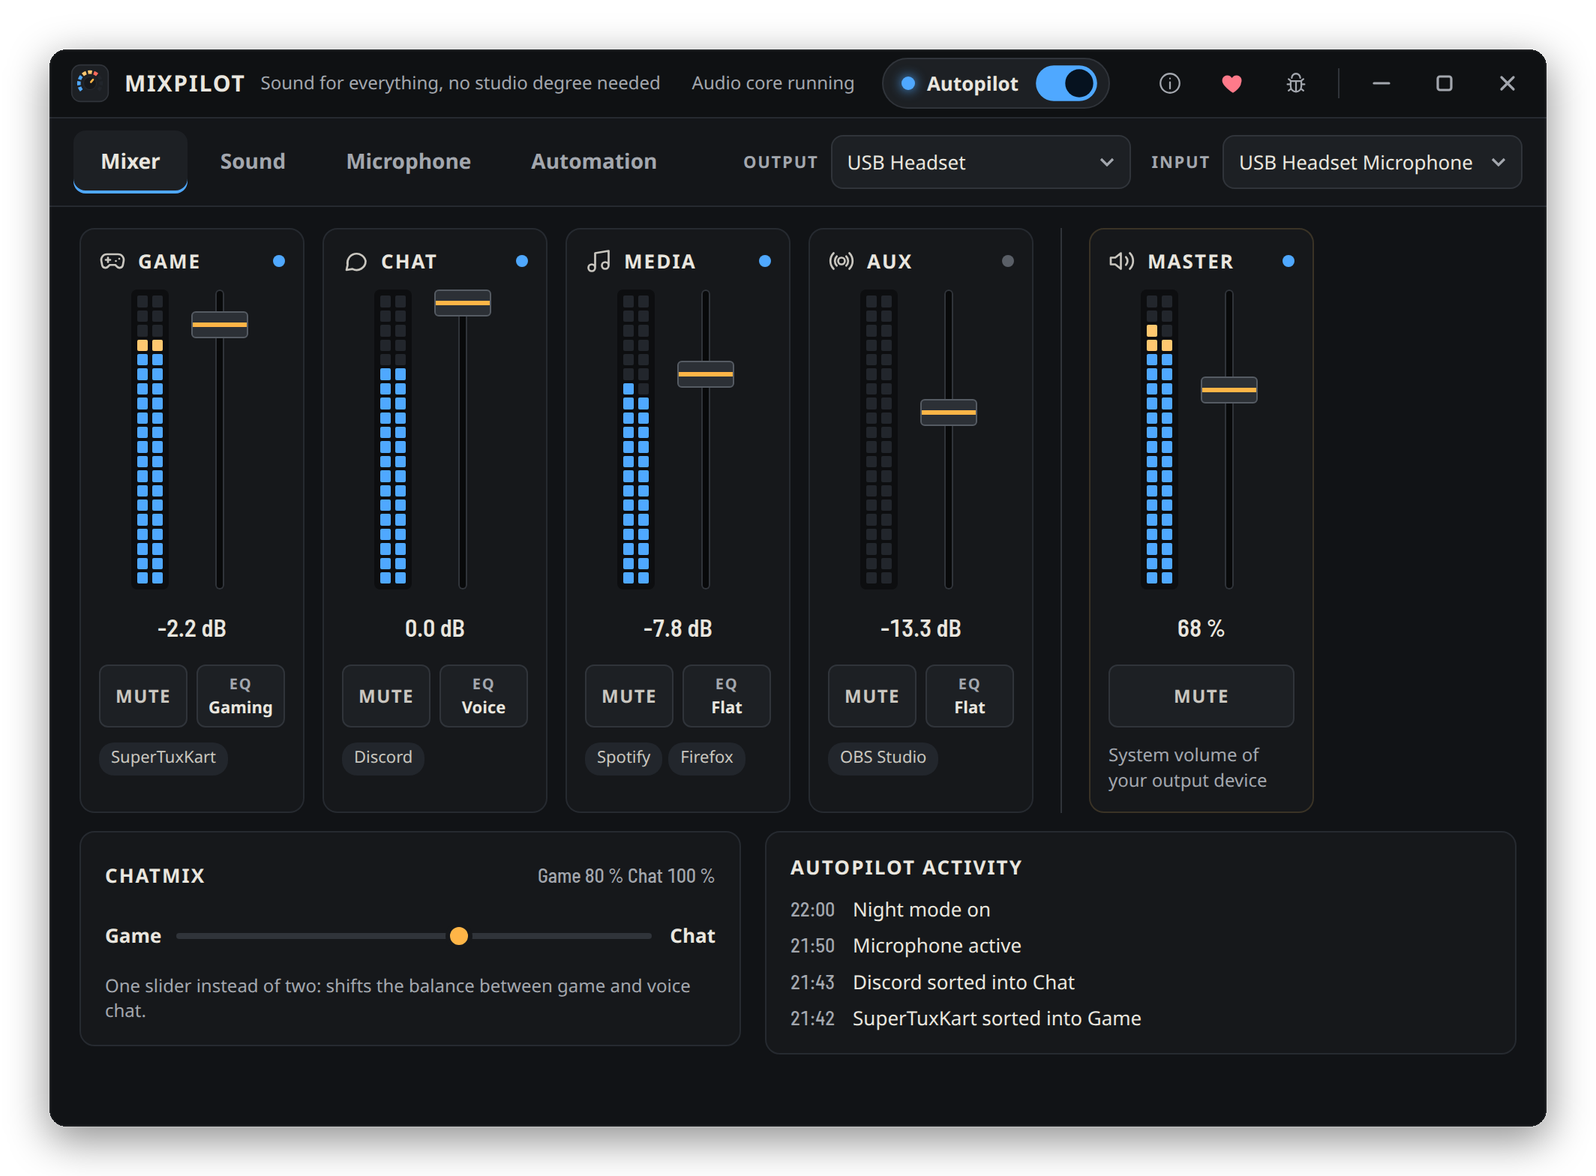
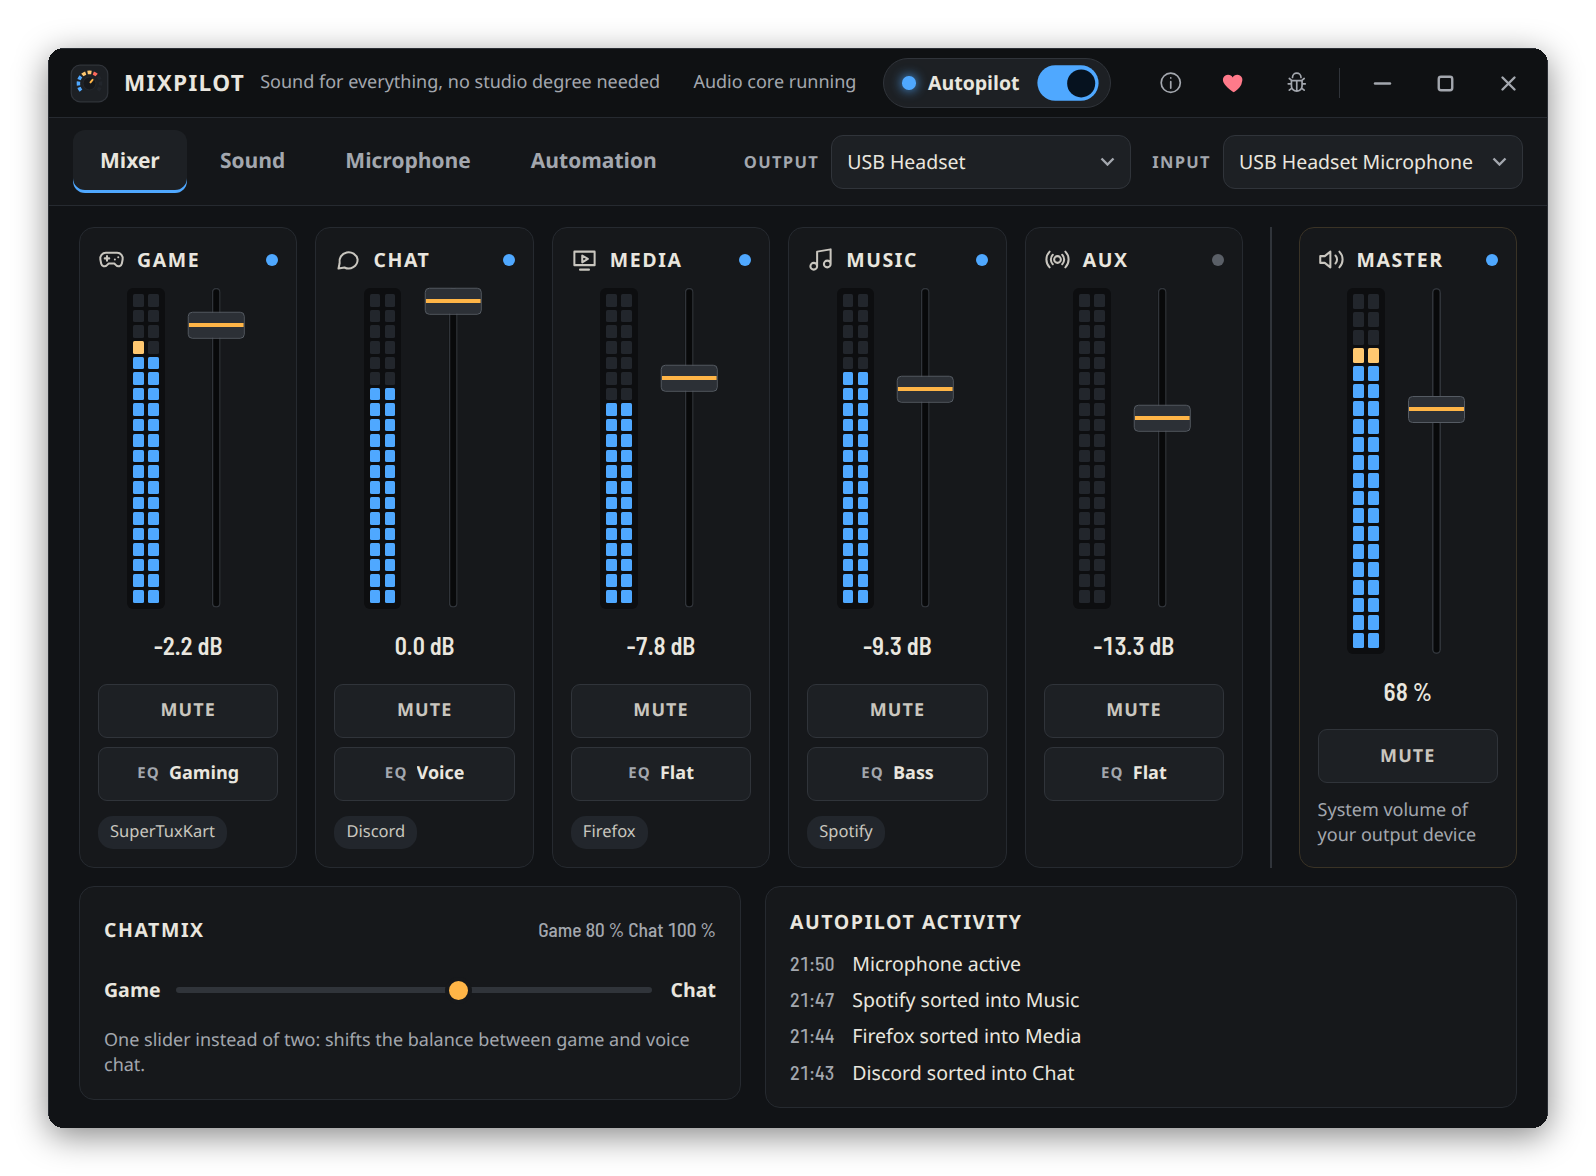
Refresh the screenshots
Five channels, the stacked strip buttons and the preset card in the sound tab.

diff --git a/README.md b/README.md
@@ -43,7 +43,7 @@ Needs PipeWire with WirePlumber, the default on most current distributions
 
 <table>
   <tr>
-    <td width="33%"><img src=".github/screenshots/sound.png" alt="Sound tab with equalizer, bass boost and auto volume"></td>
+    <td width="33%"><img src=".github/screenshots/sound.png" alt="Sound tab with EQ presets, bass boost and auto volume"></td>
     <td width="33%"><img src=".github/screenshots/mic.png" alt="Microphone tab with noise suppression, gain and voice presets"></td>
     <td width="33%"><img src=".github/screenshots/auto.png" alt="Automation tab with ducking, night mode and app assignments"></td>
   </tr>
